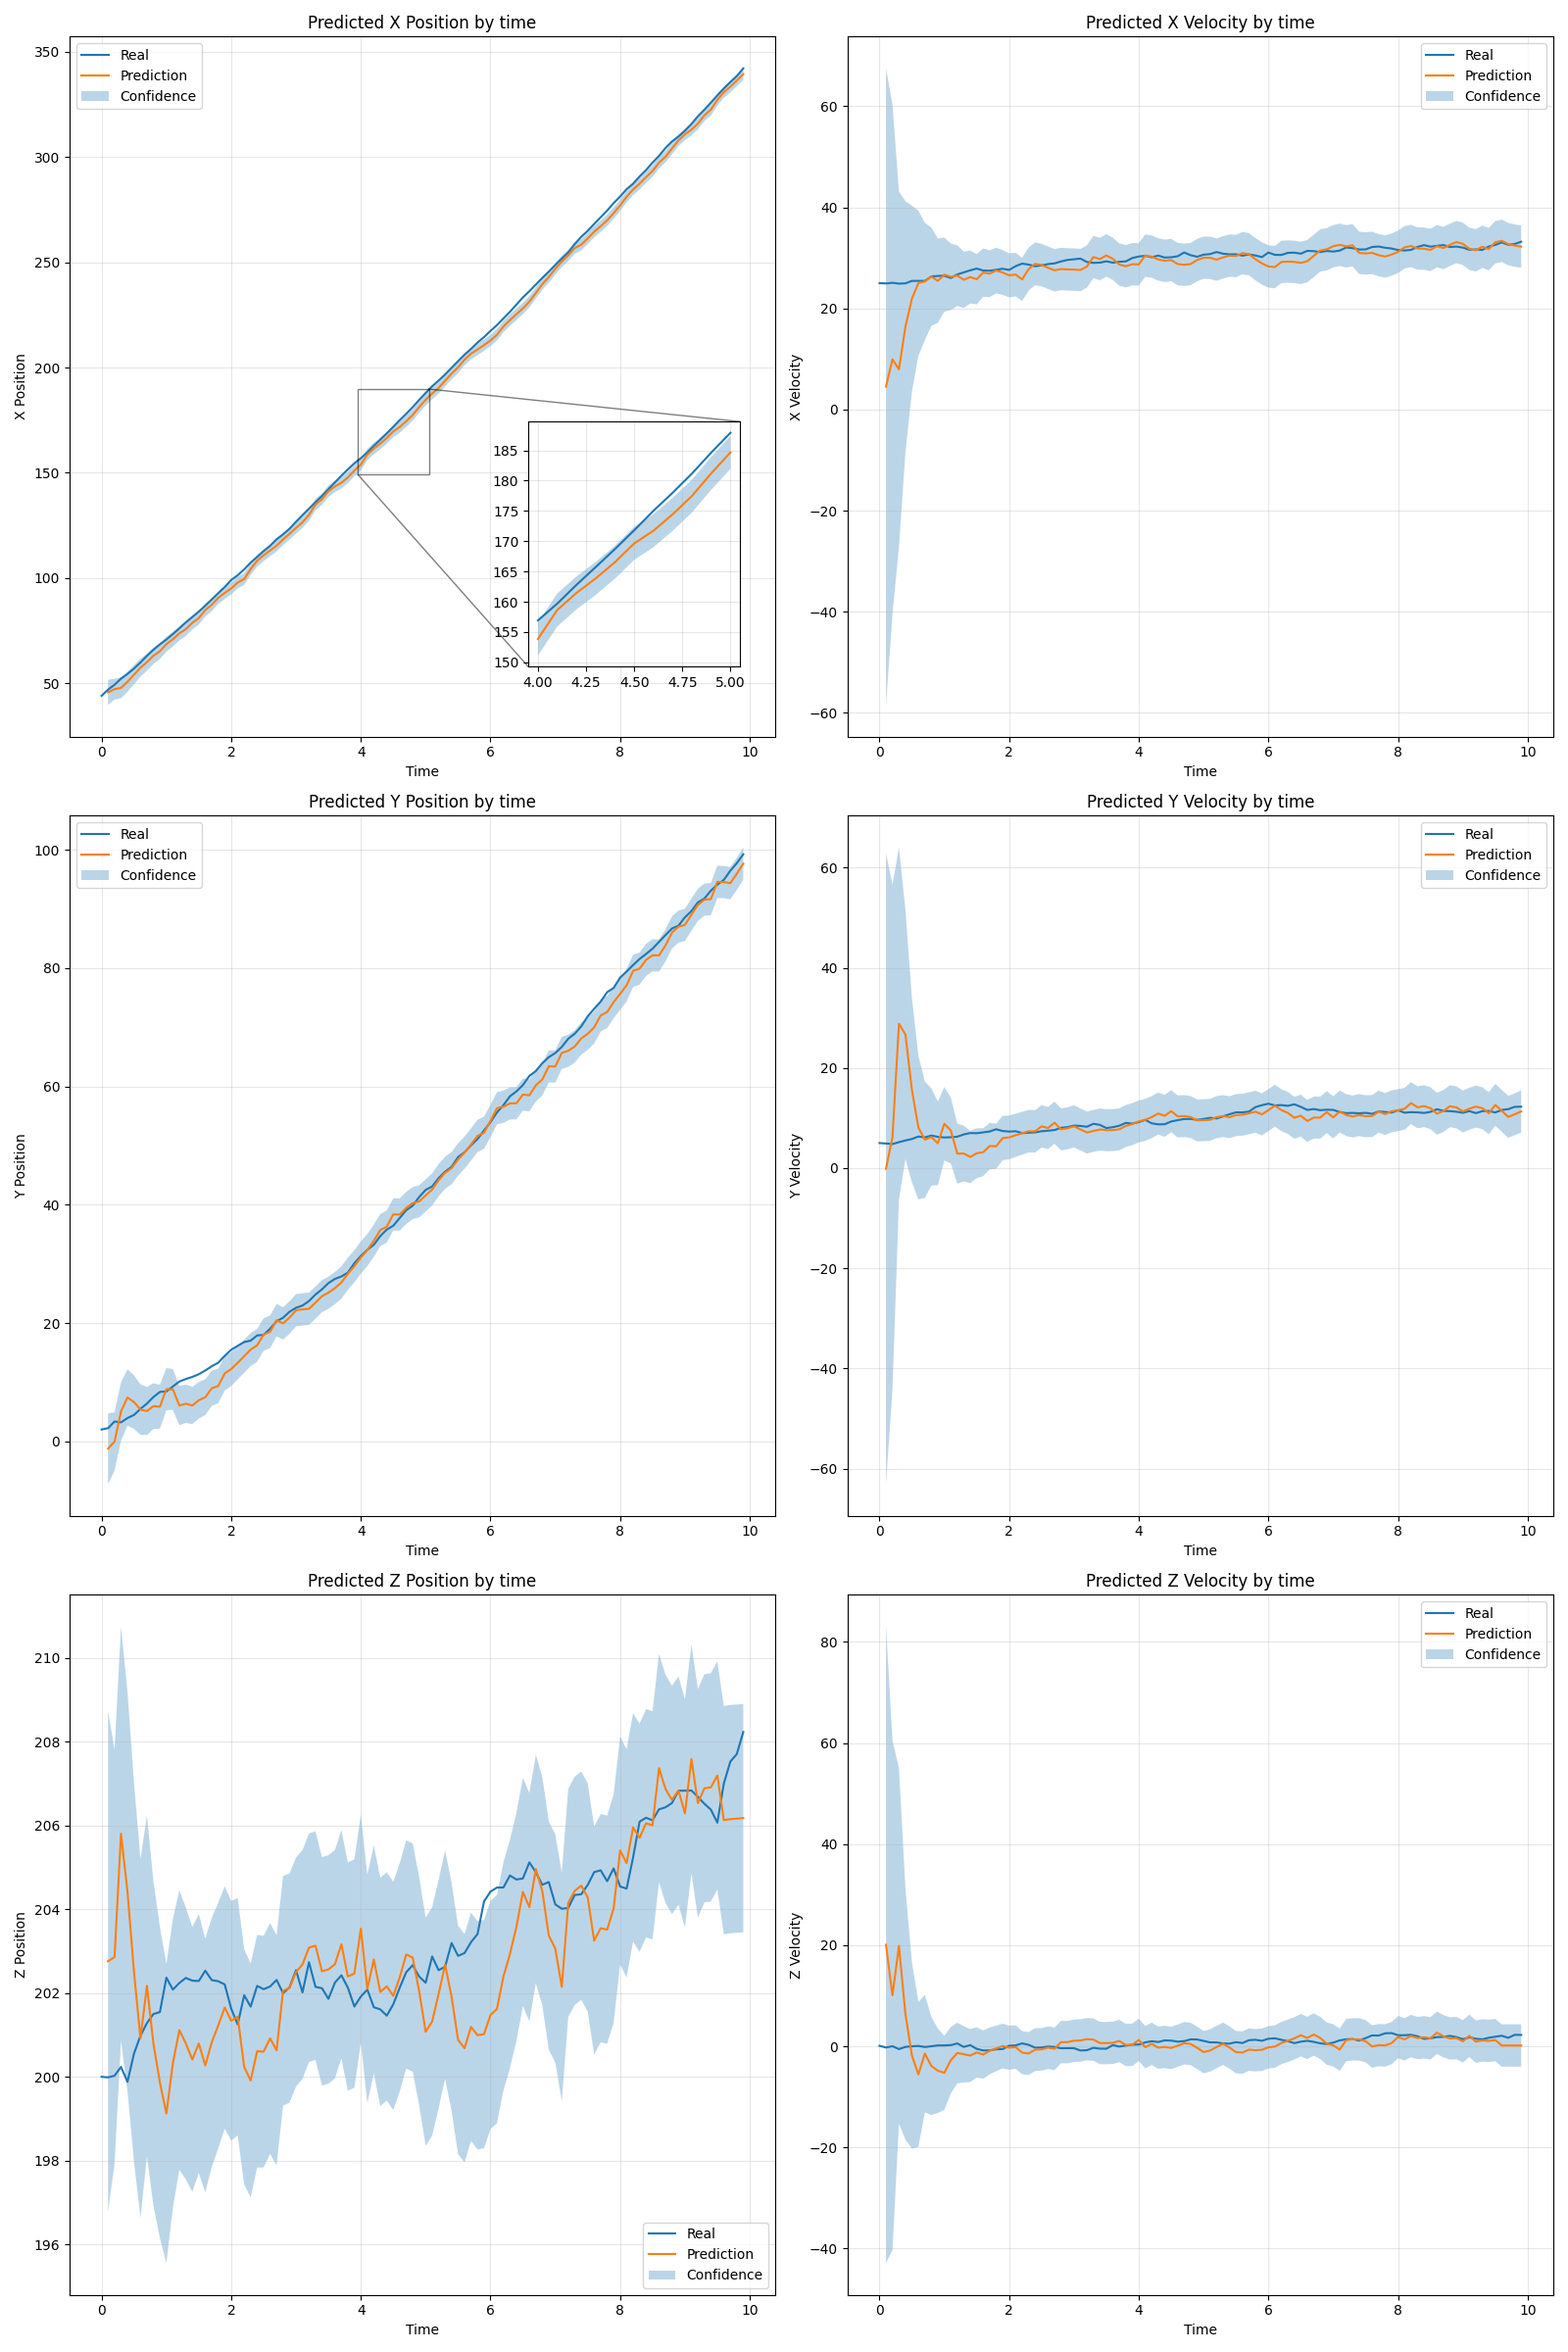
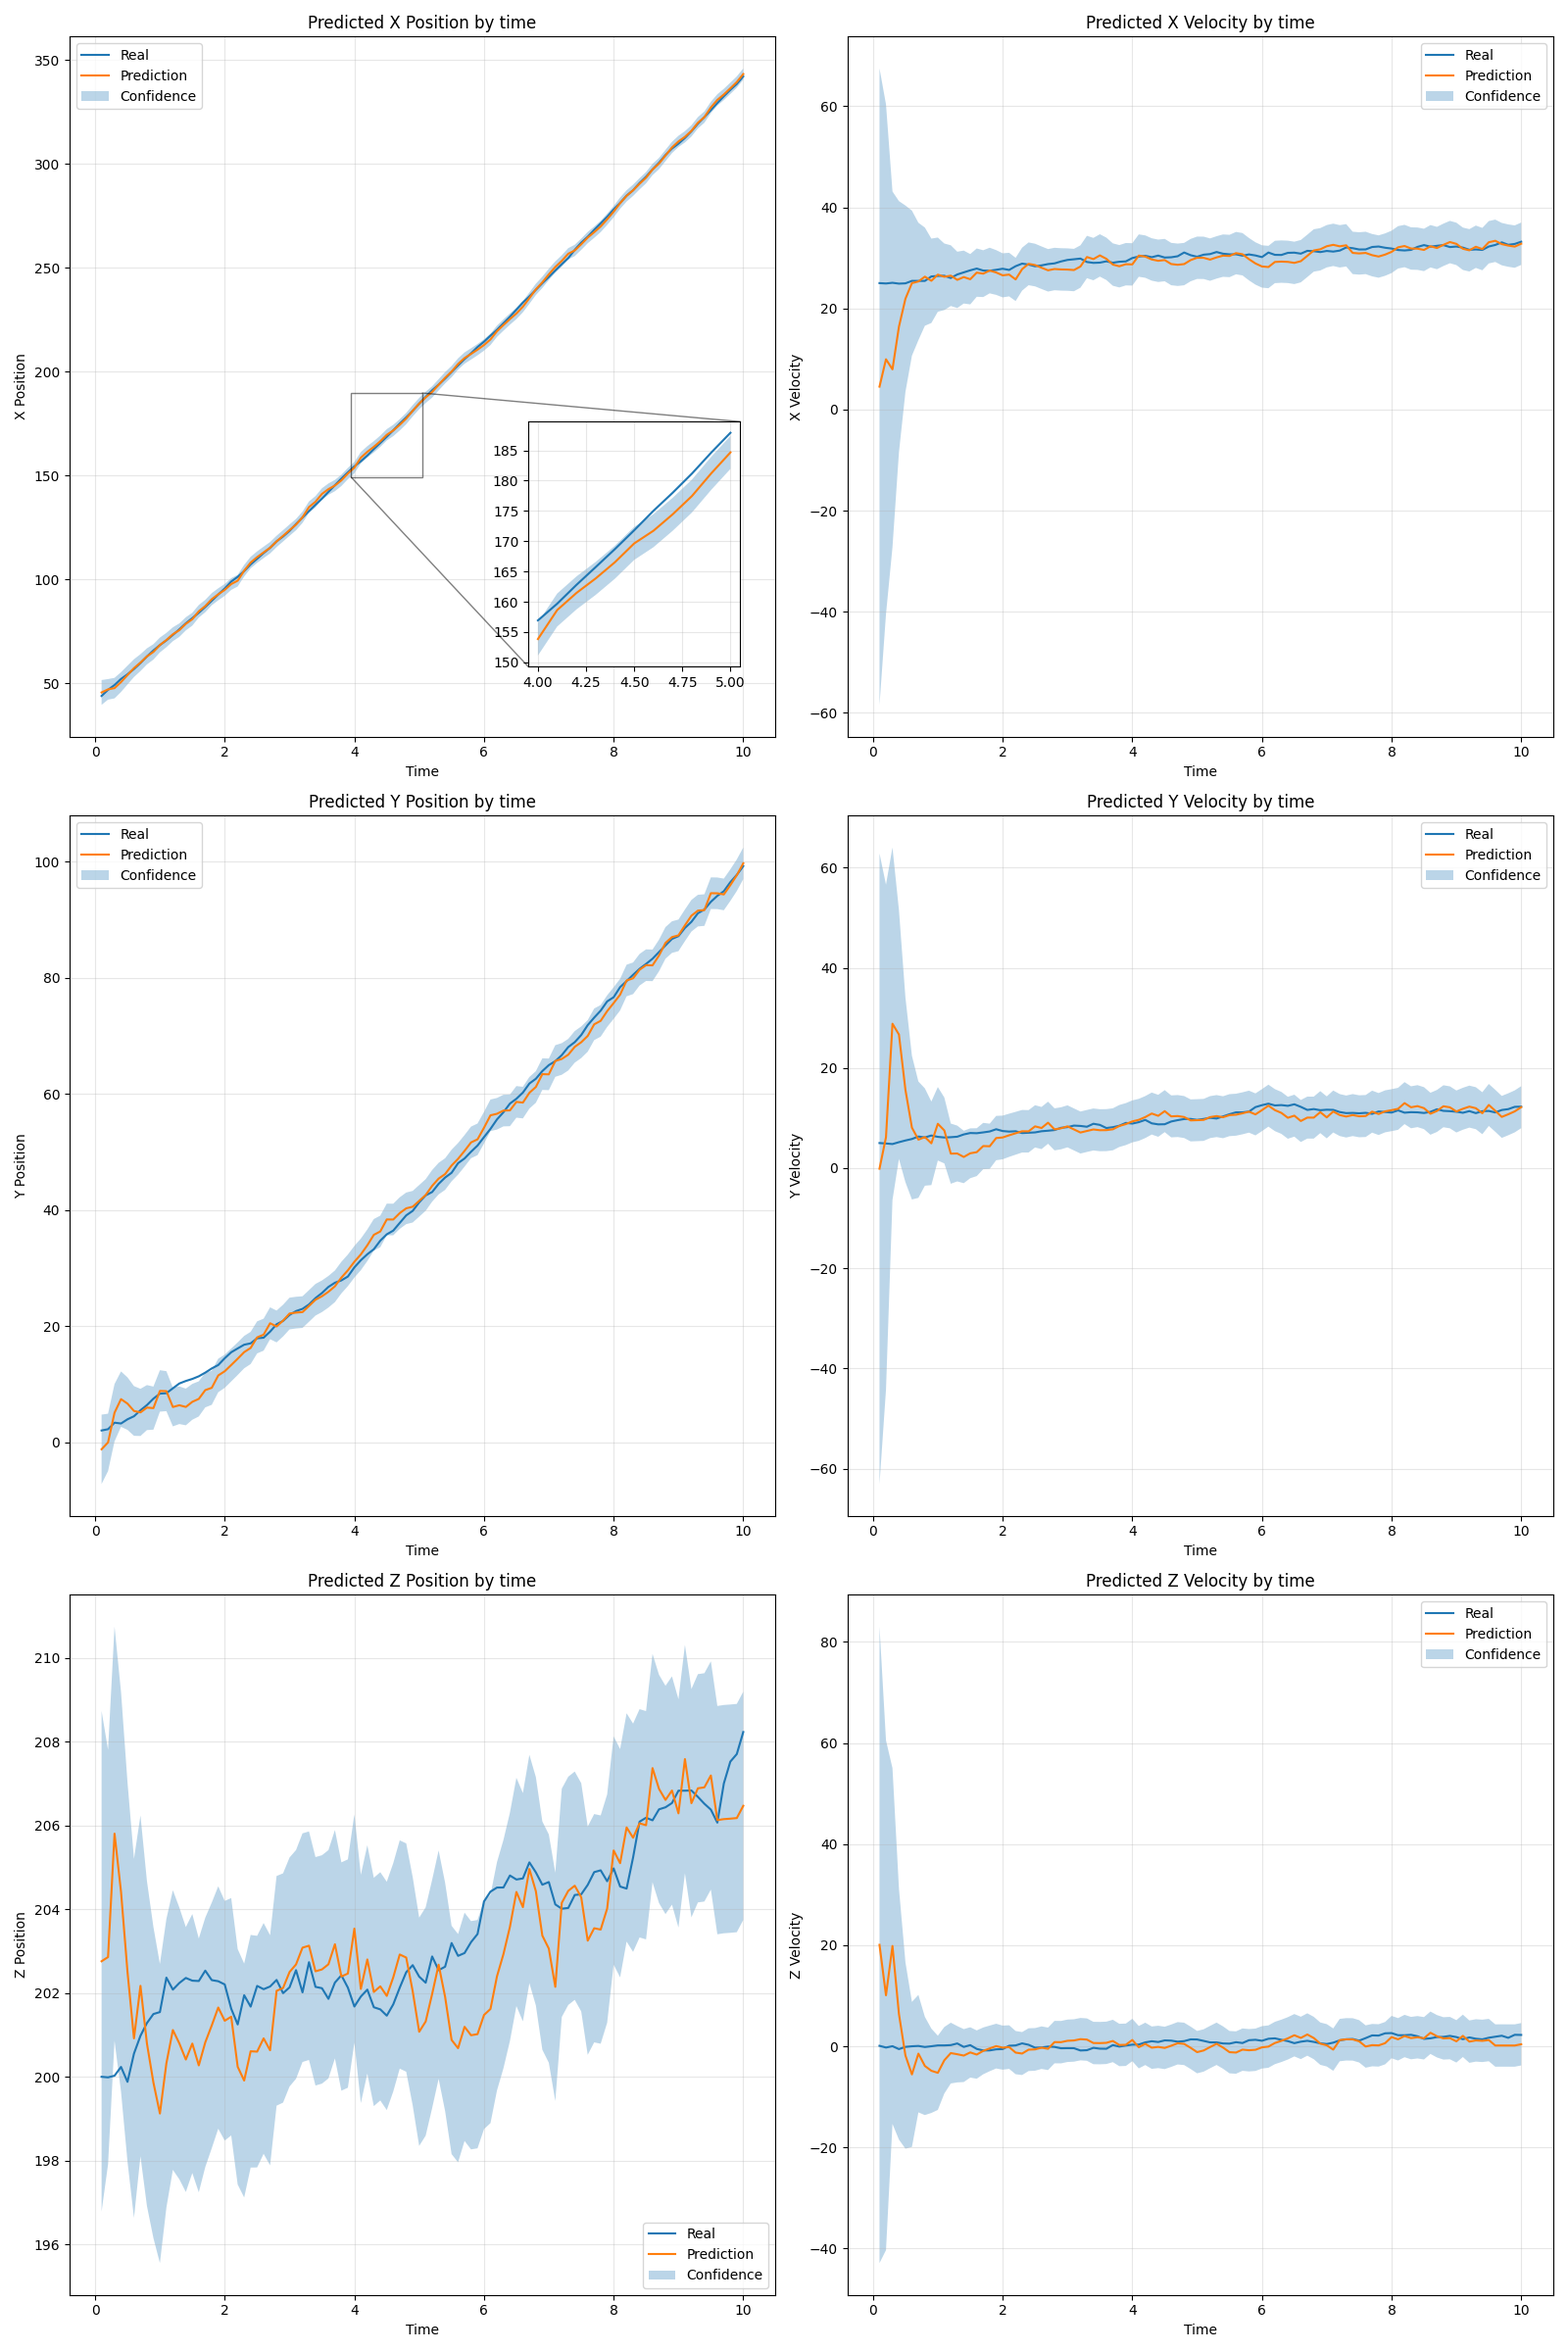
(feat) some minor adjustments to graph

diff --git a/s5/main.py b/s5/main.py
@@ -1,5 +1,6 @@
 import numpy as np
 import matplotlib.pyplot as plt
+from tabulate import tabulate
 
 T = 0.1
 F = np.array(
@@ -78,7 +79,7 @@ measures = np.array(measures)
 print(measures.shape)
 print(real_data.shape)
 
-def plot(data, pred = None, cov = None, remove_k_first=0, remove_k_last=0):
+def plot(data, pred = None, cov = None, remove_k_first=0):
     N = data.shape[1]
 
     X = data[0, :]
@@ -89,21 +90,21 @@ def plot(data, pred = None, cov = None, remove_k_first=0, remove_k_last=0):
     Vz = data[5, :]
     if pred is not None:
         pred = np.array(pred)
-        X_pred = pred[0, remove_k_first:-remove_k_last]
-        Y_pred = pred[1, remove_k_first:-remove_k_last]
-        Z_pred = pred[2, remove_k_first:-remove_k_last]
-        Vx_pred = pred[3, remove_k_first:-remove_k_last]
-        Vy_pred = pred[4, remove_k_first:-remove_k_last]
-        Vz_pred = pred[5, remove_k_first:-remove_k_last]
+        X_pred = pred[0, remove_k_first:]
+        Y_pred = pred[1, remove_k_first:]
+        Z_pred = pred[2, remove_k_first:]
+        Vx_pred = pred[3, remove_k_first:]
+        Vy_pred = pred[4, remove_k_first:]
+        Vz_pred = pred[5, remove_k_first:]
     if cov is not None:
         cov = np.array(cov)
         trace = np.trace(cov, axis1=1, axis2=2)
-        sigma_x = np.sqrt(cov[remove_k_first:-remove_k_last, 0, 0])
-        sigma_y = np.sqrt(cov[remove_k_first:-remove_k_last, 1, 1])
-        sigma_z = np.sqrt(cov[remove_k_first:-remove_k_last, 2, 2])
-        sigma_vx = np.sqrt(cov[remove_k_first:-remove_k_last, 3, 3])
-        sigma_vy = np.sqrt(cov[remove_k_first:-remove_k_last, 4, 4])
-        sigma_vz = np.sqrt(cov[remove_k_first:-remove_k_last, 5, 5])
+        sigma_x = np.sqrt(cov[remove_k_first:, 0, 0])
+        sigma_y = np.sqrt(cov[remove_k_first:, 1, 1])
+        sigma_z = np.sqrt(cov[remove_k_first:, 2, 2])
+        sigma_vx = np.sqrt(cov[remove_k_first:, 3, 3])
+        sigma_vy = np.sqrt(cov[remove_k_first:, 4, 4])
+        sigma_vz = np.sqrt(cov[remove_k_first:, 5, 5])
 
     def plot_in_time(axis, data, T=T, label = "", title="", ylabel="", xlabel="", offset=0):
         axis.plot(T * np.arange(offset, offset + len(data)), data, label=label)
@@ -114,17 +115,17 @@ def plot(data, pred = None, cov = None, remove_k_first=0, remove_k_last=0):
     def fill_between_in_time(axis, data, sigma, T=T, label="", offset=0):
         axis.fill_between(T * np.arange(offset, offset + len(data)), data - 2*sigma, data + 2*sigma, alpha=0.3, label=label)
 
-    fig, axes = plt.subplots(3, 2, figsize=(16, 24))
+    fig, axes = plt.subplots(3, 2, figsize=(16, 24)) # (16, 24)
     zmX = axes[0, 0].inset_axes([0.65, 0.10, 0.3, 0.35]) # x0, y0, width, height
     zoom_limits = (40, 50)
     plot_in_time(zmX, X[zoom_limits[0]:zoom_limits[1]+1], label='Real', title='Zoomed X Position by time', ylabel='X Position', xlabel='Time', offset=zoom_limits[0])
 
-    plot_in_time(axes[0, 0], X, label="Real", title='True X Position by time', ylabel='X Position', xlabel='Time')
-    plot_in_time(axes[0, 1], Vx, label="Real", title='True X Velocity by time', ylabel='X Velocity', xlabel='Time')
-    plot_in_time(axes[1, 0], Y, label="Real", title='True Y Position by time', ylabel='Y Position', xlabel='Time')    
-    plot_in_time(axes[1, 1], Vy, label="Real", title='True Y Velocity by time', ylabel='Y Velocity', xlabel='Time')
-    plot_in_time(axes[2, 0], Z, label="Real", title='True Z Position by time', ylabel='Z Position', xlabel='Time')
-    plot_in_time(axes[2, 1], Vz, label="Real", title='True Z Velocity by time', ylabel='Z Velocity', xlabel='Time')
+    plot_in_time(axes[0, 0], X, label="Real", title='True X Position by time', ylabel='X Position', xlabel='Time', offset=1)
+    plot_in_time(axes[0, 1], Vx, label="Real", title='True X Velocity by time', ylabel='X Velocity', xlabel='Time', offset=1)
+    plot_in_time(axes[1, 0], Y, label="Real", title='True Y Position by time', ylabel='Y Position', xlabel='Time', offset=1)    
+    plot_in_time(axes[1, 1], Vy, label="Real", title='True Y Velocity by time', ylabel='Y Velocity', xlabel='Time', offset=1)
+    plot_in_time(axes[2, 0], Z, label="Real", title='True Z Position by time', ylabel='Z Position', xlabel='Time', offset=1)
+    plot_in_time(axes[2, 1], Vz, label="Real", title='True Z Velocity by time', ylabel='Z Velocity', xlabel='Time', offset=1)
 
     if pred is not None:
         X_vals = list(range(remove_k_first, N+1))
@@ -146,19 +147,22 @@ def plot(data, pred = None, cov = None, remove_k_first=0, remove_k_last=0):
         fill_between_in_time(axes[2, 1], Vz_pred, sigma_vz, label='Confidence', offset=remove_k_first)
         
     def plot_trace():
-        fig_, axes_ = plt.subplots(1, 3, figsize=(18, 6))
+        fig_, axes_ = plt.subplots(1, 1, figsize=(6, 6))
         if cov is not None:
-            # axes_.set_title('Trace of Cov Matrix')
-            cut = 25
-            axes_[0].semilogy(trace, label='Trace of P_k')
-            axes_[1].semilogy(range(cut), trace[:cut], label=f'Trace < {cut}')
-            axes_[2].semilogy(range(cut, len(trace)), trace[cut:], label=f'Trace >= {cut}')
+            print(trace)
+            axes_.set_title('Trace of Cov Matrix')
+            axes_.plot(trace, label='Trace of P')
 
-            for i in range(3):
-                axes_[i].set_xlabel('k')
-                axes_[i].set_ylabel('Trace')
-                axes_[i].grid(alpha=0.3)
-                axes_[i].legend()
+            # for i in range(3):
+            axes_.set_xlabel('Iteration')
+            axes_.set_ylabel('Trace')
+            axes_.grid(alpha=0.3)
+            axes_.legend()
+            
+            formatted_values = [(f"{i} - {v:.4f}" if i <=59 else f"{i} - {v:.8f}") for i, v in enumerate(trace[:-1])]
+            table_data = np.reshape(formatted_values, (20, 5), order='F')
+            latex_table = tabulate(table_data, tablefmt="latex")
+            print(latex_table)
 
     for i in range(3):
         for j in range(2):
@@ -173,10 +177,10 @@ def plot(data, pred = None, cov = None, remove_k_first=0, remove_k_last=0):
     plt.tight_layout()
 
     # Show the plot
-    # plt.show()
     plt.savefig('plot.png')
+    # plt.show()
 
 for measure in measures:
     step(measure)
 x_hat = np.array(x_hat).T.reshape(6, -1)
-plot(real_data, x_hat, P, 1, 1)
+plot(real_data, x_hat, P, 1)
